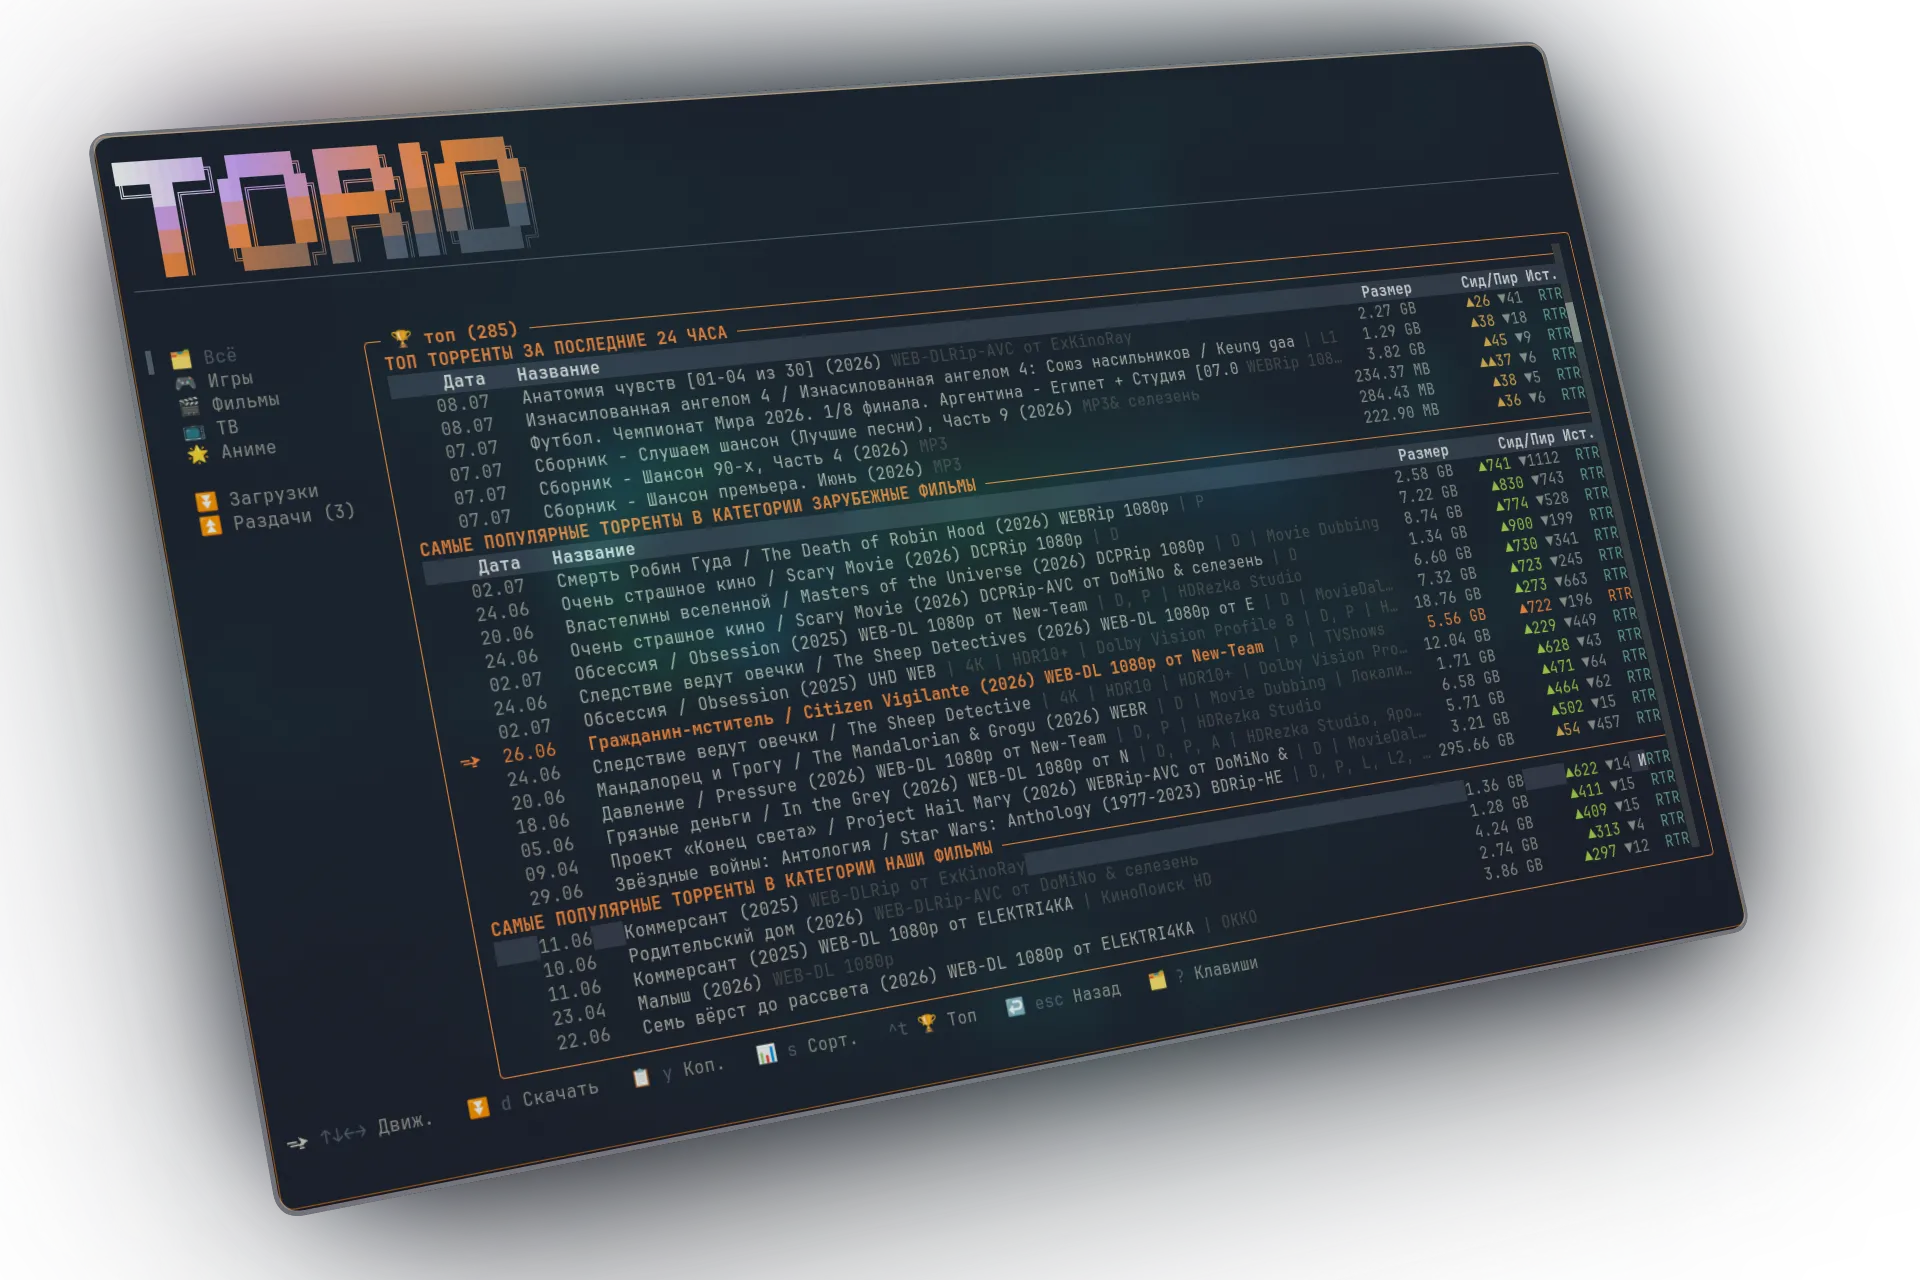
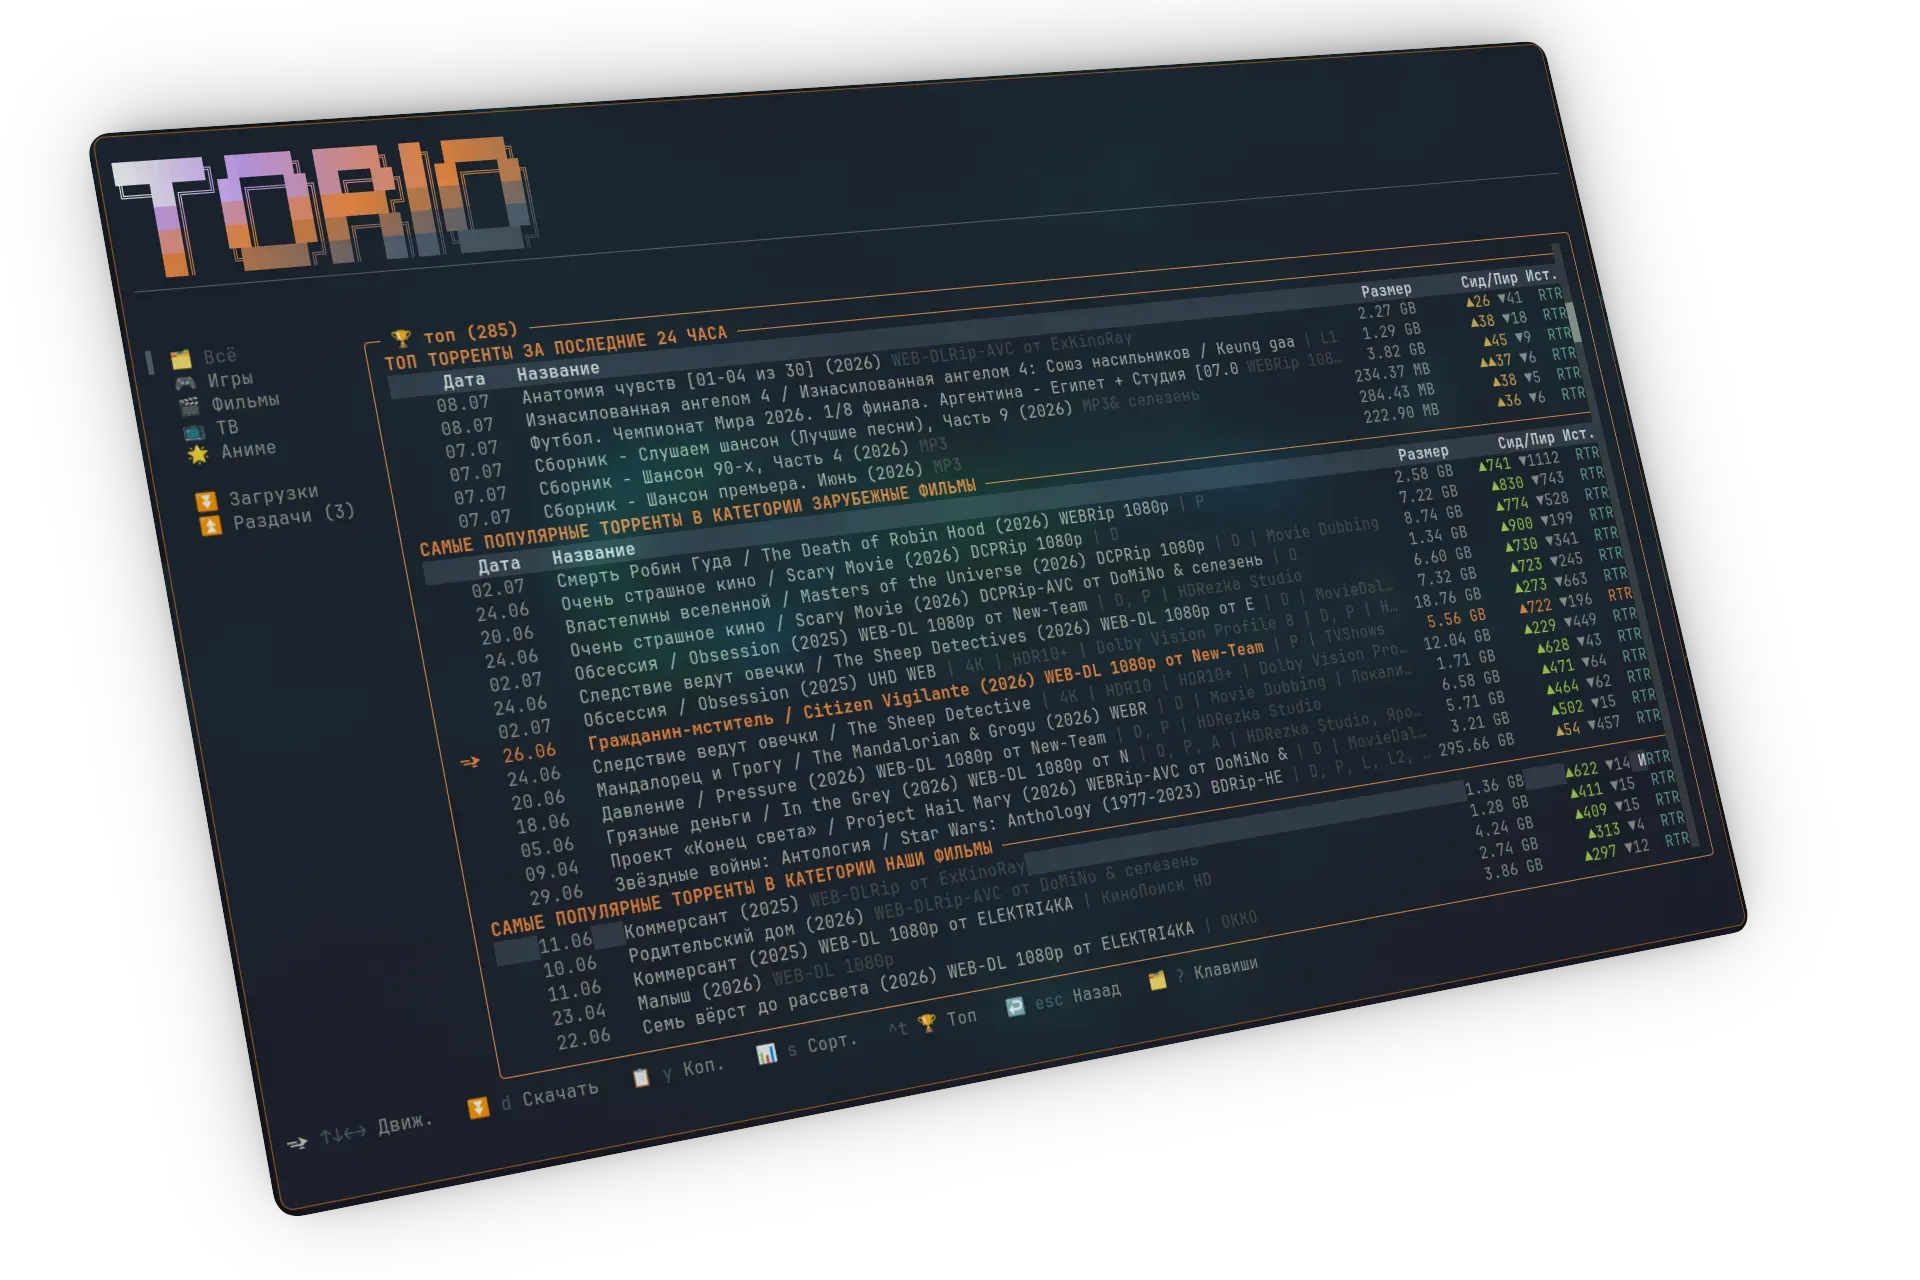
feat: новая картинка hero, текст в 3 строки, text-shadow

Changed region(s): [[0.0, 0.0, 0.9688, 1.0]]

diff --git a/landing/index.html b/landing/index.html
@@ -140,6 +140,9 @@
         ::-webkit-scrollbar-thumb:hover {
             background: #f76d26;
         }
+        .text-shadow {
+            text-shadow: 0 2px 12px rgba(0,0,0,0.35), 0 0 40px rgba(255,143,64,0.08);
+        }
         .active-tab {
             border-color: #ff8f40 !important;
             color: #ff8f40 !important;
@@ -409,9 +412,10 @@
                         <span>⚡ БЫСТРЫЙ ПОИСК И СКАЧИВАНИЕ ТОРРЕНТОВ БЕЗ БРАУЗЕРА</span>
                     </div>
 
-                    <h1 class="text-2xl sm:text-4xl lg:text-5xl xl:text-6xl font-extrabold tracking-tight text-gray-900 dark:text-white leading-tight">
-                        Поиск и скачивание торрентов<br>
-                        <span class="text-brand-neon">прямо из терминала</span>
+                    <h1 class="text-xl sm:text-3xl md:text-4xl lg:text-5xl xl:text-6xl font-extrabold tracking-tight text-gray-900 dark:text-white leading-tight text-shadow">
+                        <span class="block whitespace-nowrap">Поиск и скачивание</span>
+                        <span class="block whitespace-nowrap">торрентов</span>
+                        <span class="block whitespace-nowrap text-brand-neon">прямо из терминала</span>
                     </h1>
 
                     <p class="mt-5 text-base sm:text-lg text-gray-600 dark:text-gray-400 font-light leading-relaxed max-w-xl">